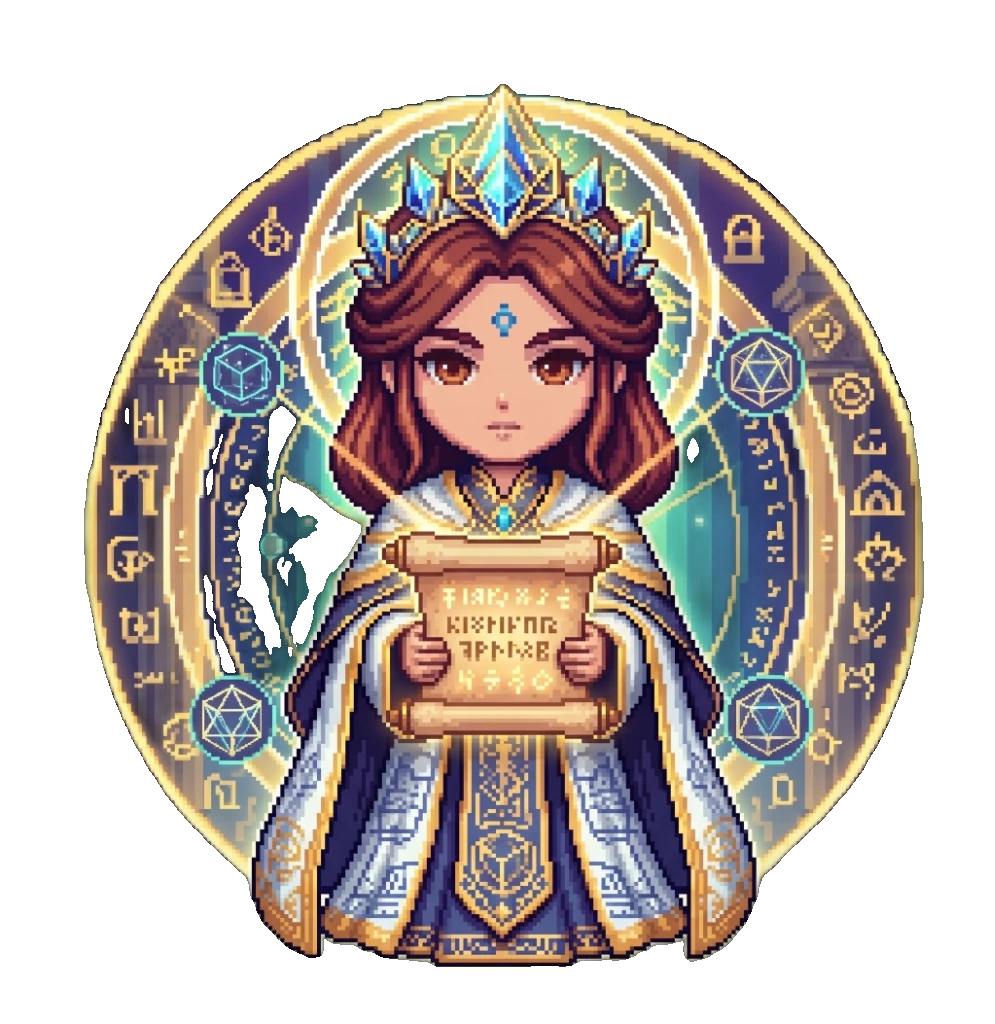
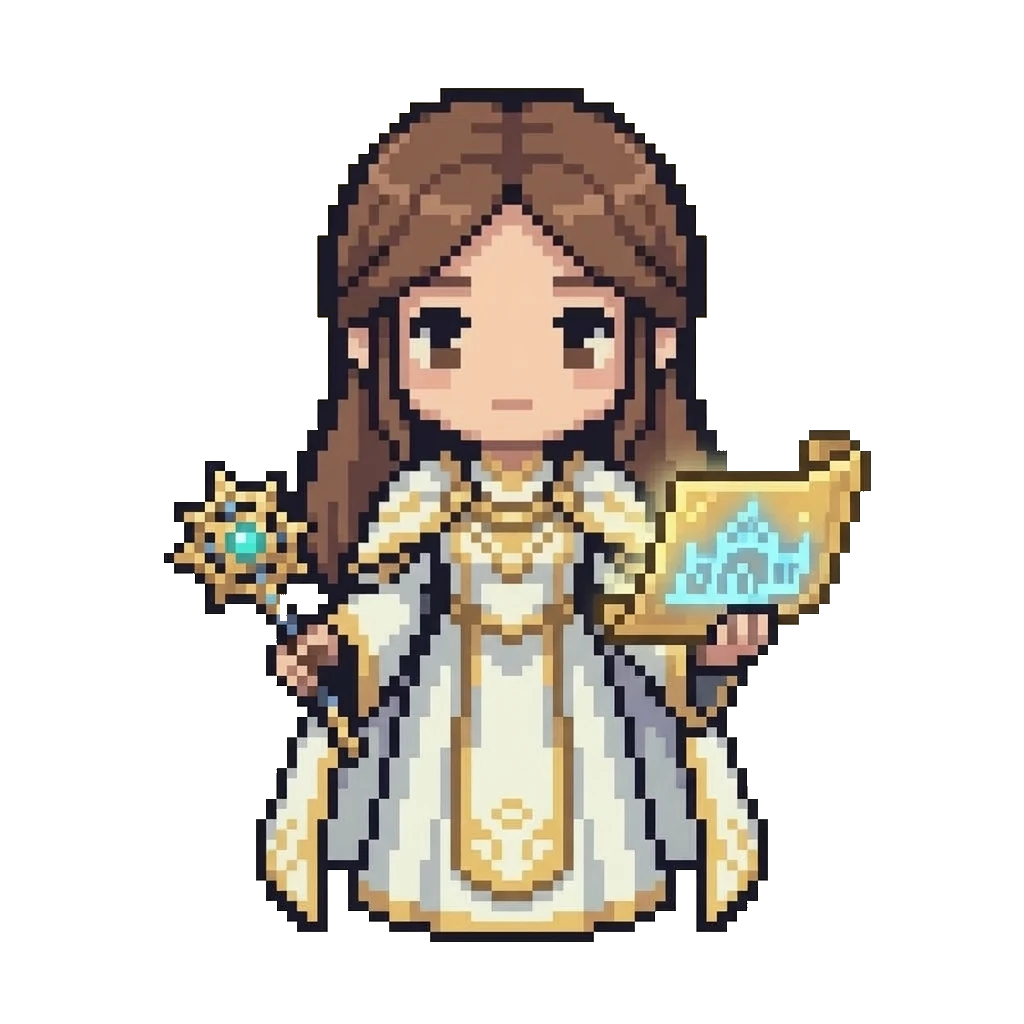
feat(assets): update Architect A-rank sprite to new pixel-art design with transparent background

diff --git a/frontend/src/components/mindos/BossDefeatModal.jsx b/frontend/src/components/mindos/BossDefeatModal.jsx
@@ -9,6 +9,7 @@ import { useHardwareBack } from '@/utils/modalStack';
 import { hapticHeavy, hapticSuccess } from '@/hooks/useHaptic';
 import { SCROLLS, SCROLL_BOSS_IMAGES, RANK_COLORS } from './ScrollsPanel';
 import ConfettiBurst from './ConfettiBurst';
+import OptimizedImage from './OptimizedImage';
 import { Swords, Coins, Zap, Sparkles, Gem, Trophy, Droplets } from 'lucide-react';
 
 export default function BossDefeatModal({ isOpen, onClose, combatResult, rewards }) {
@@ -276,7 +277,7 @@ export default function BossDefeatModal({ isOpen, onClose, combatResult, rewards
                 {(uniqueItem || rewards?.item_dropped) && (() => {
                   const dropLabel = rewards?.item_name || uniqueItem?.label || "Unique Artifact";
                   const rolledStats = rewards?.item_stat_bonuses;
-                  const statDesc = rolledStats && Object.keys(rolledStats).length > 0
+                  const statDesc = rolledStats && typeof rolledStats === 'object' && Object.keys(rolledStats).length > 0
                     ? Object.entries(rolledStats).map(([k, v]) => `${k.toUpperCase()} +${v}`).join(" · ")
                     : (uniqueItem?.effect || "");
 

diff --git a/frontend/src/components/mindos/ScrollsPanel.jsx b/frontend/src/components/mindos/ScrollsPanel.jsx
@@ -1,8 +1,7 @@
 // @ts-nocheck
 import { useState } from "react";
 import { useTranslation } from "react-i18next";
-import { createPortal } from "react-dom";
-import { motion, AnimatePresence } from "framer-motion";
+import { motion } from "framer-motion";
 import { useQuery, useMutation, useQueryClient } from "@tanstack/react-query";
 import { djangoApi } from "@/api/djangoClient";
 import OptimizedImage from "./OptimizedImage";
